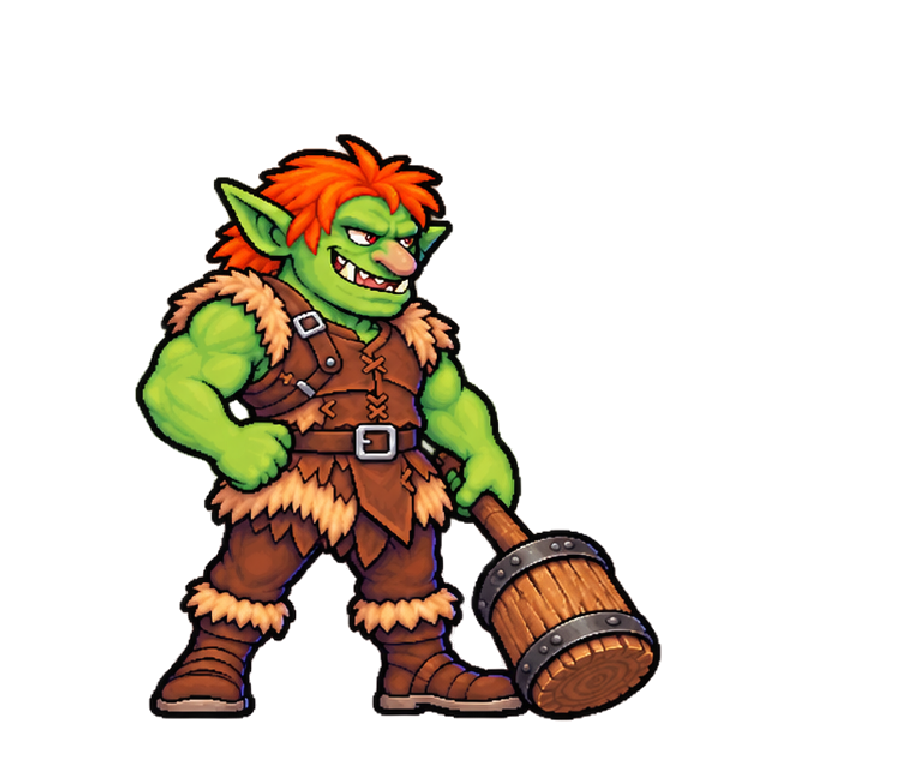
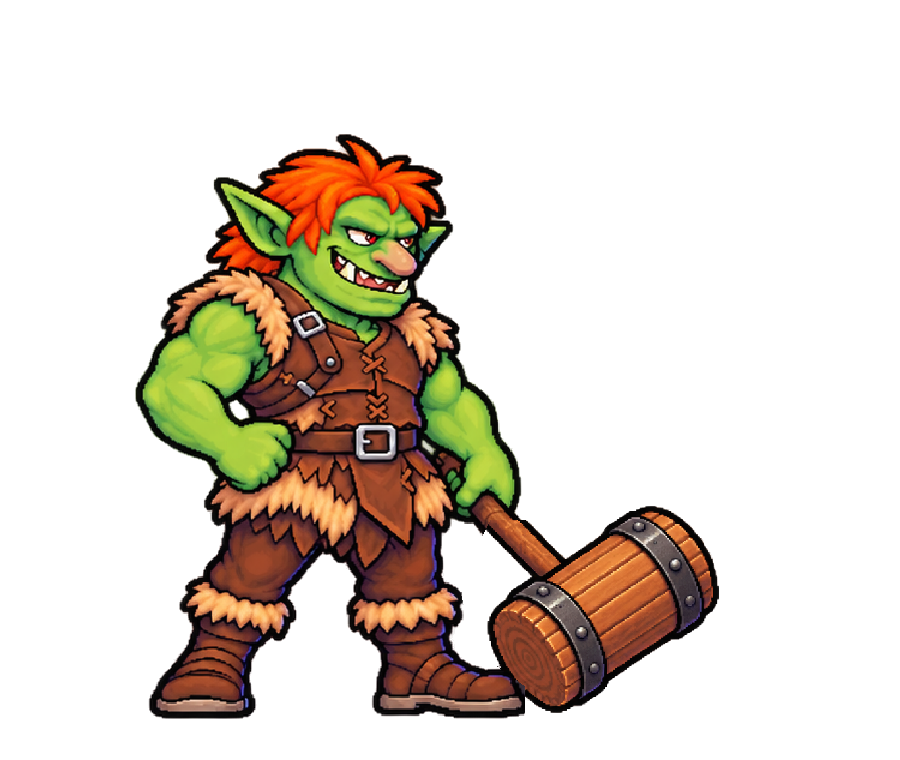
Corrige a marreta na pose final do troll

Changed region(s): [[0.4978, 0.6658, 0.8089, 0.9684]]

diff --git a/scripts/prepare_animation.py b/scripts/prepare_animation.py
@@ -21,6 +21,21 @@ for name, box, (hip, ground) in poses:
     part = part.resize(tuple(round(v * 1.2) for v in part.size), Image.Resampling.NEAREST)
     frame = Image.new('RGBA', (900, 760))
     frame.alpha_composite(part, (round(350 + (box[0]-hip)*1.2), round(720 + (box[1]-ground)*1.2)))
+    if name == 'recover':
+        # A folha original desenhou a cabeça no prolongamento do cabo.
+        # Integra somente a marreta corrigida; corpo, mão e botas ficam intactos.
+        corrected = Image.open(SOURCE / 'troll-recover-corrigido.png').convert('RGBA')
+        corrected = corrected.resize(frame.size, Image.Resampling.NEAREST)
+        corrected.putalpha(corrected.getchannel('A').point(lambda a: 0 if a < 12 else a))
+        aligned = Image.new('RGBA', frame.size)
+        aligned.alpha_composite(corrected, (-6, 0))
+        mask = Image.new('L', frame.size)
+        ImageDraw.Draw(mask).polygon([
+            (490, 520), (540, 520), (600, 490), (900, 490),
+            (900, 760), (525, 760), (525, 686), (475, 650),
+            (460, 590), (475, 550),
+        ], fill=255)
+        frame = Image.composite(aligned, frame, mask)
     frame.save(OUT / f'troll-{name}.png', optimize=True)
 
 # Aproveita as expressões sem substituir cabeça, mãos ou cadeira.

diff --git a/assets/sprites-v1/CORRECAO-MARRETA.md b/assets/sprites-v1/CORRECAO-MARRETA.md
@@ -1,0 +1,9 @@
+# Correção da marreta de repouso
+
+Edição com a ferramenta integrada de imagens, usando
+`web/assets/animation/troll-recover.png` como referência. A folha original
+`troll-movimento.png` continua intacta.
+
+## Prompt utilizado
+
+Use case: precise-object-edit. Edit target: supplied transparent pixel-art troll recovery sprite. Correct ONLY the wooden mallet head in the lower right. The barrel head is currently wrongly inline with its diagonal handle, like a club. It MUST be a real T-shaped mallet: long barrel-head axis runs diagonally from LOWER LEFT to UPPER RIGHT, perpendicular (90 degrees) to the handle which runs from the troll's right hand down and right. The handle attaches to the CENTER of the barrel's LONG SIDE, never to an end cap. Preserve original wooden barrel, two gray metal bands, shading, outline, pixel-art style, same approximate head size and center position. Keep the complete troll, face, hair, hands, body, legs, boots, posture, scale, ground baseline, canvas placement, and original shaft unchanged. Keep entire mallet visible with padding. Absolutely no background, shadow plane, text, extra objects or characters. Preserve transparency. This is a minimal local repair of a game sprite; do not redraw or reposition any part of the troll.

diff --git a/assets/sprites-v1/PREPARACAO.md b/assets/sprites-v1/PREPARACAO.md
@@ -20,7 +20,11 @@ RGBA na tela original de 1024 × 1536. A cabeça, o corpo, a cadeira e as mãos
 continuam sendo os pixels do sprite neutro. Os passarinhos são um SVG em pixel art
 com órbita elíptica e asas animadas em CSS, sem GIF e sem temporizadores contínuos
 em JavaScript. O reflexo da tela continua acima das expressões e mantém sua
-máscara original. Não houve nova geração de imagens.
+máscara original. A cabeça da marreta na pose final recebeu uma correção local
+com a ferramenta integrada de imagens: agora o cabo entra na lateral da cabeça,
+formando um T. O script aplica uma máscara somente na região da marreta e
+preserva os pixels do corpo, da mão e das botas. A imagem editada e o prompt
+estão em `troll-recover-corrigido.png` e `CORRECAO-MARRETA.md`.
 
 ## Linha do tempo
 
